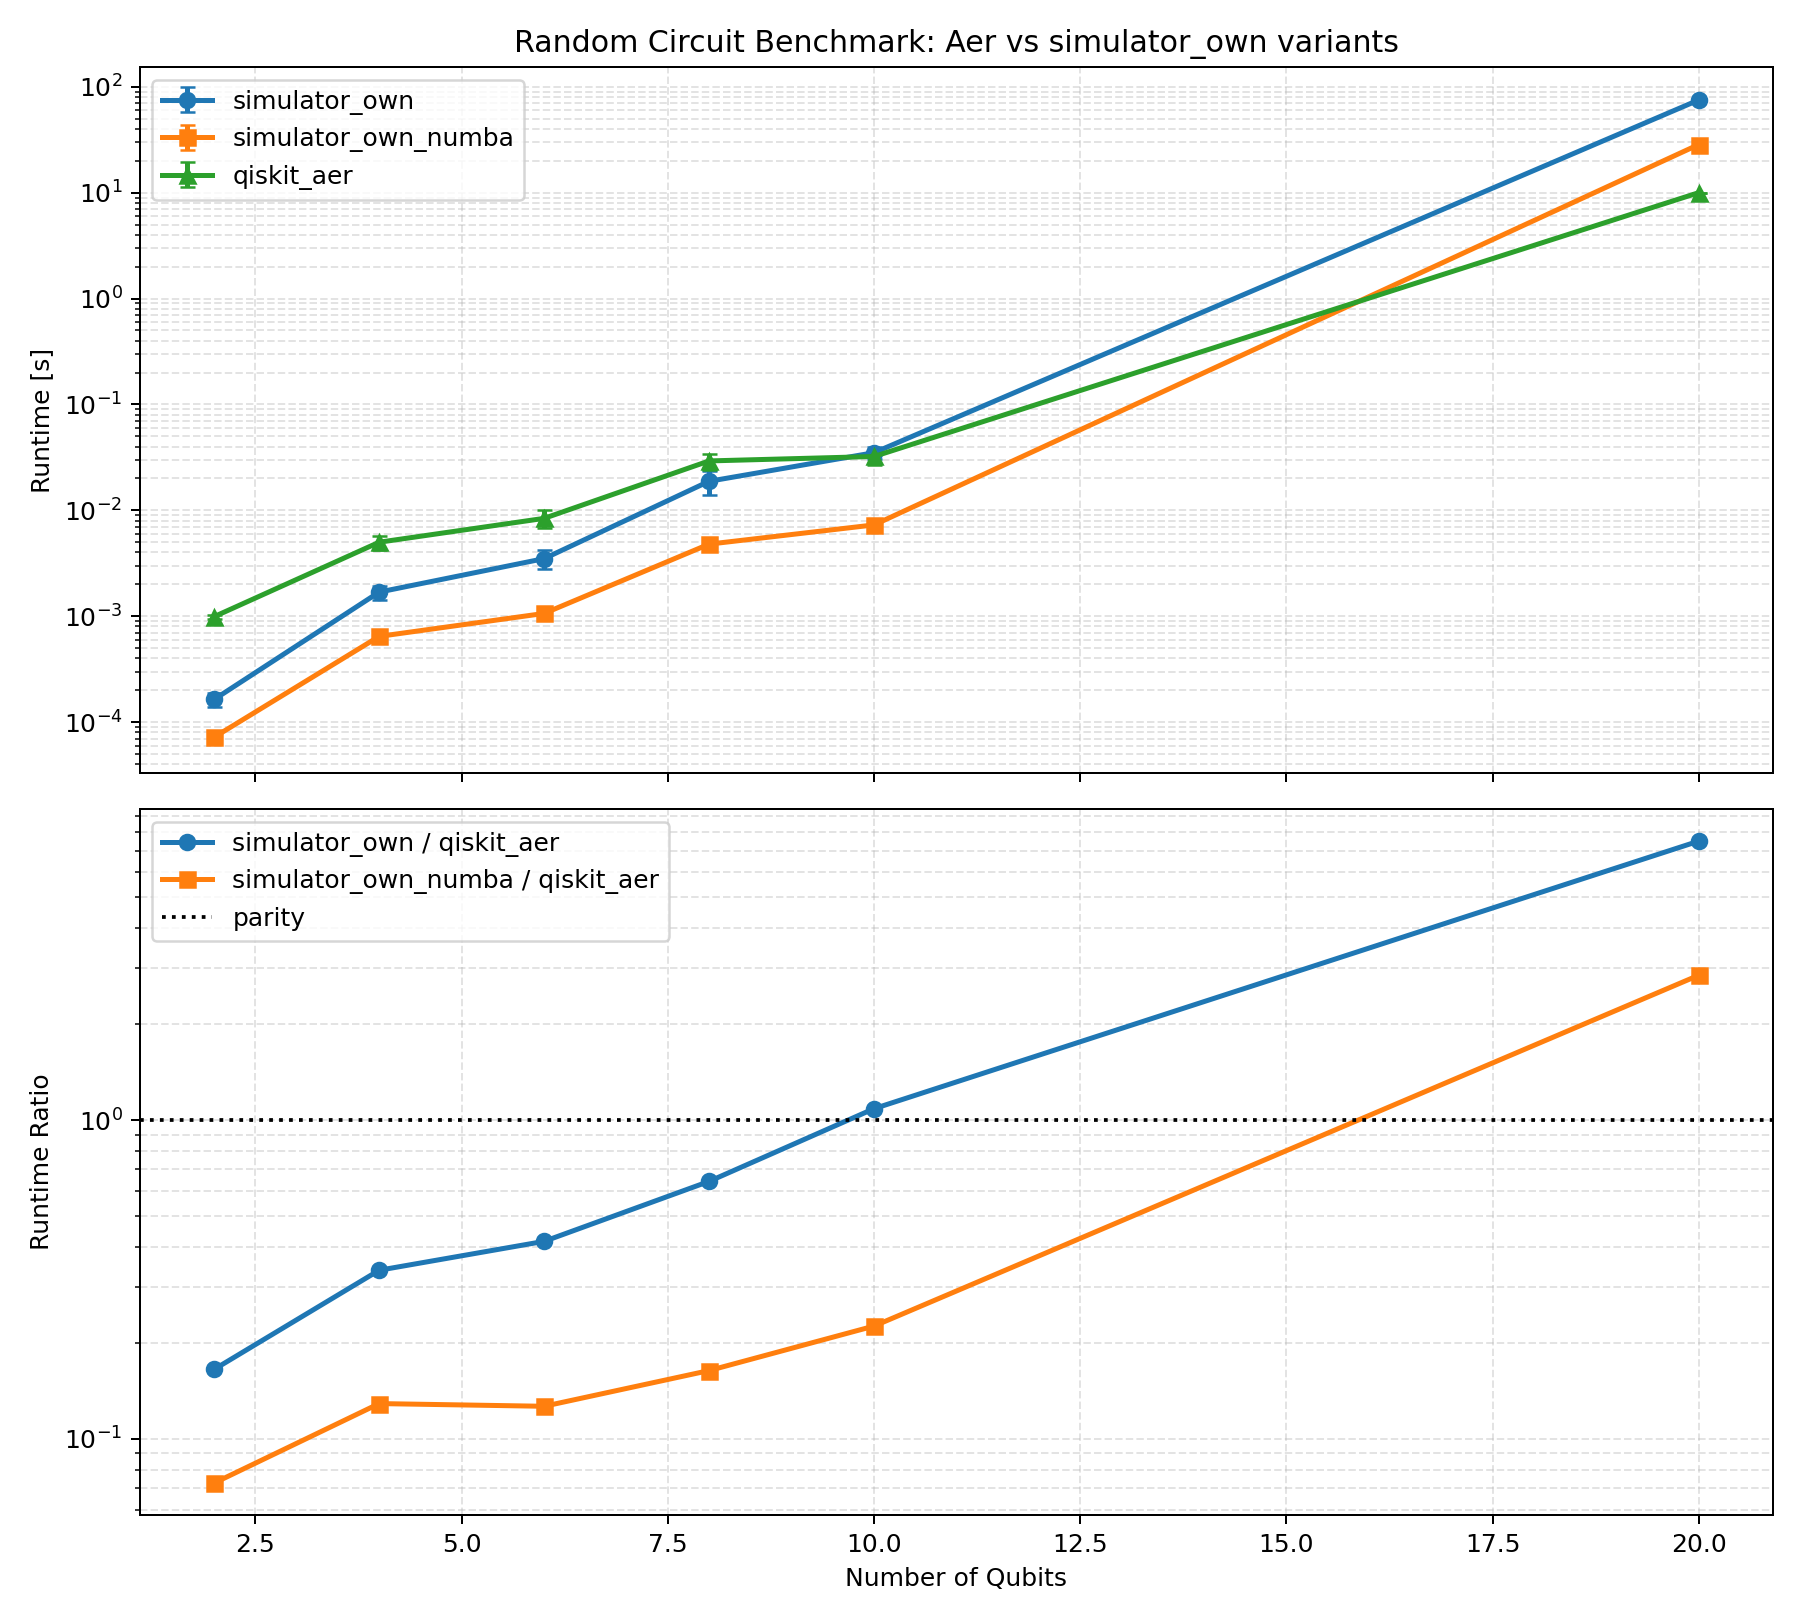
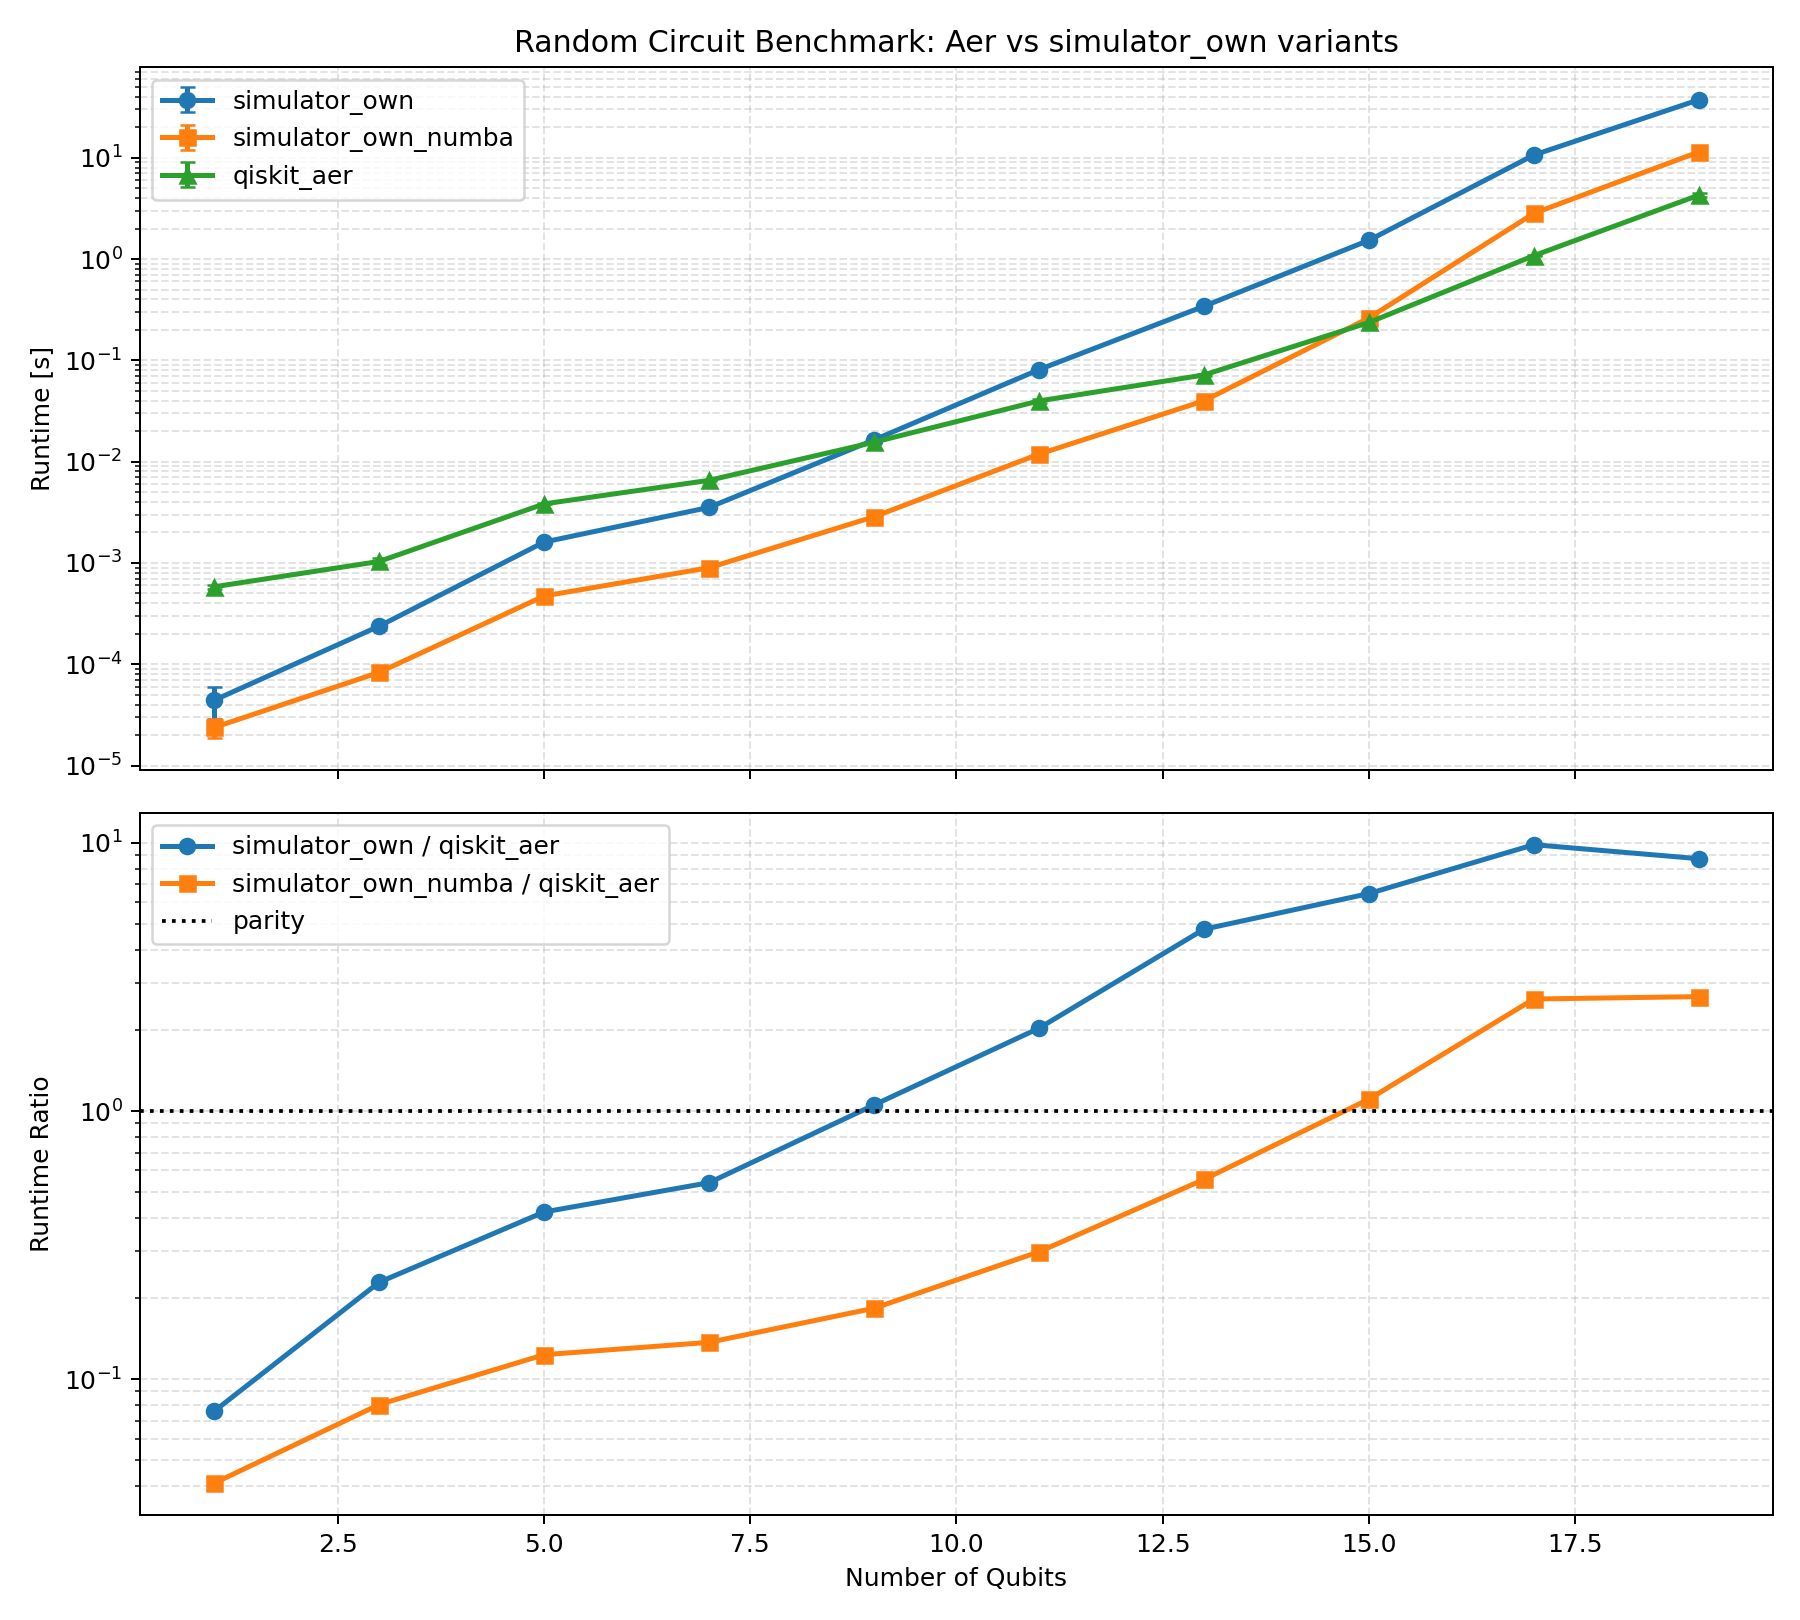
updated Aer, own, numba benchmark for list(range(1,21,2))

Changed region(s): [[0.0, 0.0617, 0.9956, 0.9568], [0.0311, 0.0926, 0.0622, 0.1235]]

diff --git a/testing/benchmark_random_circuit_plot.py b/testing/benchmark_random_circuit_plot.py
@@ -57,7 +57,7 @@ def main() -> None:
     output_dir = Path("testing") / ".benchmarks"
     output_dir.mkdir(parents=True, exist_ok=True)
 
-    qubit_counts = [2, 4, 6, 8, 10, 20]
+    qubit_counts = list(range(1, 21, 2))
     repeats = 7
 
     own = BenchmarkSeries("simulator_own", [], [])
